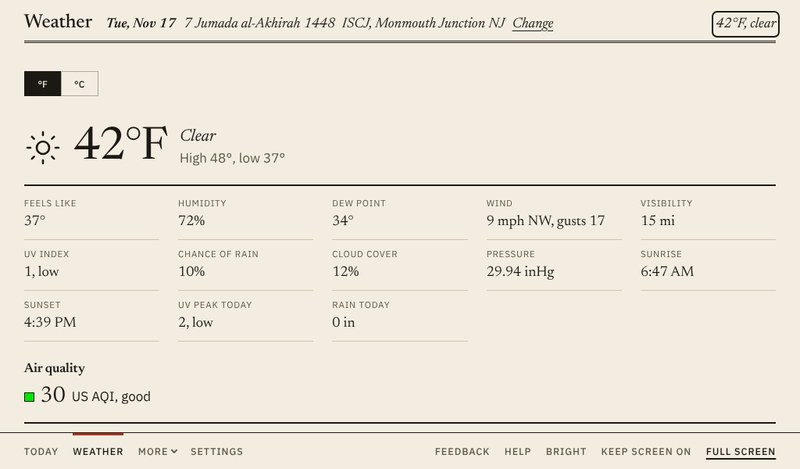
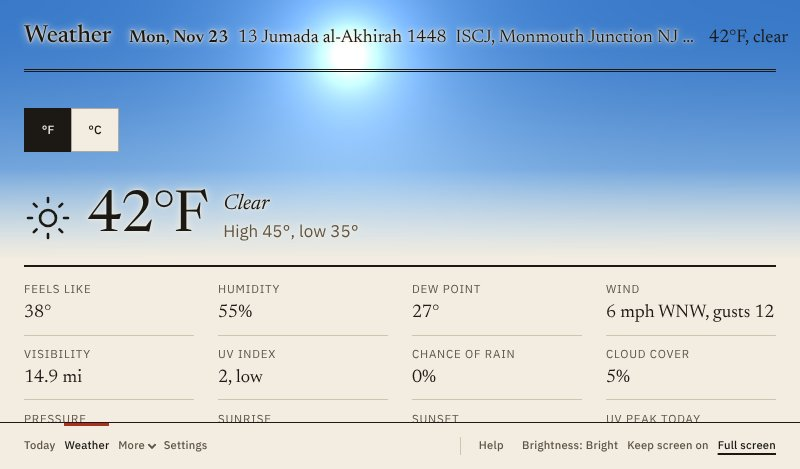
Weather tab: today's real sky behind the current weather
- The Weather tab shows the sky in the Printed timetable look whatever the
  Weather background setting says (Off is now about Today, and its note says
  so): the realistic sky by day at Bright, Soft and Dim; at night the printed
  sky at Soft and Dim, and the moon and stars at Darkest
- No sky in E-ink, High contrast or Handwritten, or under Black
- The sky is a band behind the current weather that ends just below it
  (--wx-band, measured as the weather is drawn) and scrolls away with it
  (--sky-y), so the details, the hours and the days stay on plain paper; the
  current weather and the unit buttons get the paper halo used on Today
- Today is unchanged
- Guide: Weather chapter screenshot and text, a note in Display; cache
  iqama-v61

Claude-Session: https://claude.ai/code/session_01XcbEMSBHqonumVRiWc1ZiV

diff --git a/app.js b/app.js
@@ -134,8 +134,12 @@ const night = () => timesKnown && (nowMinute >= day.rows[3].adhan || nowMinute <
 // Weather background: the realistic sky (the default: the sun on its real path by day, stars and the moon at the Hijri
 // date's phase at night), the printed sky, or off; each moving or still. sky.js draws the realistic sky only where the page
 // matches it (light by day, Darkest at night) and the printed one otherwise. dim is the level on show (Black shows as Darkest).
-const skyBack = (dim = Number(root.dataset.dim) || 0) => (settings.wxSky === 'off' ? 'off'
-  : settings.wxSky === 'real' ? (settings.wxMove ? 'real' : 'real-still') : settings.wxMove ? 'print' : 'still');
+// The Weather tab always shows the weather it describes: its picture follows the setting, and is the realistic sky even when
+// the setting is Off (Off is about Today). Only the Printed timetable look has a sky, on every screen.
+const onWeather = () => root.dataset.tab === 'weather'; // the tab on show (set by route; safe before the tabs are set up)
+const skyStyle = () => (onWeather() && settings.wxSky === 'off' ? 'real' : settings.wxSky);
+const skyBack = (dim = Number(root.dataset.dim) || 0) => (skyStyle() === 'off' ? 'off'
+  : skyStyle() === 'real' ? (settings.wxMove ? 'real' : 'real-still') : settings.wxMove ? 'print' : 'still');
 // The level asked for: 0 Bright to 3 Darkest, or 4 Black (no light)
 const currentDim = () => (timesKnown || settings.autoDim === 'off' ? dimLevel(settings, nightNow(), dimOverride) : shownDim ?? 0);
 // Black (no light): the page is covered in black after 30 s with no touch or key press, and drawn at Darkest underneath.
@@ -155,7 +159,7 @@ function applyLook() {
   root.dataset.palette = settings.look;
   root.dataset.dim = String(dim);
   root.dataset.black = blackNow() ? '1' : '0';
-  root.dataset.nightsky = settings.wxSky === 'real' && dim === 3 && night() ? '1' : '0'; // the realistic night sky is on show
+  root.dataset.nightsky = skyStyle() === 'real' && dim === 3 && night() ? '1' : '0'; // the realistic night sky is on show
   root.dataset.theme = dim === 3 || (dim === 2 && settings.look === 'contrast') ? 'dark' : 'light'; // Dim is a warm light page, except in High contrast
   root.dataset.clock = settings.clock;
   if (lvl !== shownDim) { shownDim = lvl; try { localStorage.setItem('iqama-dim', String(lvl)); } catch (e) {} }
@@ -375,7 +379,10 @@ function tick() {
   const sky = skyParams(weather, { now: nowMin, sunrise: day.sunrise, maghrib: day.rows[3].adhan }, parseInt(today.hijri, 10) || 15);
   const dim = Math.min(currentDim(), 3);
   // no sky in the Handwritten and High contrast looks, nor at Dim; at Darkest only the realistic night sky
-  const skyOk = settings.look === 'paper' && (dim < 2 || (settings.wxSky === 'real' && (dim === 3 || !sky.night)));
+  // the Weather tab: by day at Bright, Soft and Dim; at night at Soft and Dim (the printed sky) and at Darkest (the moon and stars)
+  wxBand();
+  const skyOk = settings.look === 'paper' && (onWeather() ? dim < 3 || (skyStyle() === 'real' && sky.night)
+    : dim < 2 || (skyStyle() === 'real' && (dim === 3 || !sky.night)));
   updateSky(sky, skyBack(dim), skyOk && root.dataset.black !== '1', root.dataset.theme === 'dark'); // nothing is drawn under the black cover
 
   // Alerts: only for moments crossed while the page is open
@@ -422,6 +429,7 @@ function route() {
   if (h === 'tour') { history.replaceState(null, '', '#today'); h = 'today'; setTimeout(runTour, 400); } // the guide links here
   if (h === 'feedback') { history.replaceState(null, '', `#${tab}`); h = tab; setTimeout(() => feedback?.open(), 0); } // the guide links here
   tab = TAB_IDS.includes(h) ? h : 'today';
+  if (root.dataset.tab !== tab) setTimeout(() => { applyLook(); tick(); }, 0); // the Weather tab has its own sky rules
   root.dataset.tab = tab; // the stylesheet lays out Today as one sheet
   for (const id of TAB_IDS) $(`tab-${id}`).hidden = id !== tab;
   document.querySelectorAll('.tabbar a, .dockbar a').forEach(a => {
@@ -1066,6 +1074,15 @@ for (const id of BIG_HOSTS) {
   $(id).addEventListener('pointerdown', (e) => { armed = !!e.target.closest('[data-swap]'); });
   $(id).addEventListener('pointerup', (e) => { if (armed && e.target.closest('[data-swap]')) swapBig(); armed = false; });
   $(id).addEventListener('click', (e) => { if (e.detail === 0 && e.target.closest('[data-swap]')) swapBig(); });
+}
+// The Weather tab's sky is a band behind the current weather that scrolls away with it (styles.css reads --sky-y)
+// and ends just below it (--wx-band: where the current weather ends, measured as the weather is drawn)
+$('tab-weather').addEventListener('scroll', () => root.style.setProperty('--sky-y', `${$('tab-weather').scrollTop}px`), { passive: true });
+function wxBand() {
+  const nowEl = onWeather() && $('wx-body').querySelector('.wx-now');
+  if (!nowEl) return;
+  const end = Math.round(nowEl.getBoundingClientRect().bottom + $('tab-weather').scrollTop + 12);
+  if (root.style.getPropertyValue('--wx-band') !== `${end}px`) root.style.setProperty('--wx-band', `${end}px`);
 }
 // The bell beside each prayer on the board: its alerts at a glance; a tap opens that prayer's card under Adhan and alerts
 const bellsNow = () => Object.fromEntries(ALERT_KEYS.map(k => [k, bellState(settings.alerts[k], settings.muted, k === 'jumuah')]));

diff --git a/styles.css b/styles.css
@@ -88,7 +88,14 @@ html { overflow-x: clip; } /* the page never slides sideways (a wide sky layer o
 .sky-live { position: fixed; inset: 0; z-index: -1; pointer-events: none; overflow: hidden; contain: paint; color: var(--ink); }
 /* The sky belongs behind the clock, not behind a form: on every screen but Today it is dropped, so Settings,
    Quran, Adhkar, Month and Weather keep their plain paper and their small text stays legible. */
-:root:not([data-tab="today"]) > body > .sky-live, :root:not([data-tab="today"]) .sky-tint { display: none; } /* the full screen view keeps its sky: there it is mounted inside #display */
+:root:not([data-tab="today"]):not([data-tab="weather"]) > body > .sky-live, :root:not([data-tab="today"]):not([data-tab="weather"]) .sky-tint { display: none; } /* the full screen view keeps its sky: there it is mounted inside #display */
+/* The Weather tab shows the weather it describes: the sky sits behind the current weather and scrolls away with it
+   (app.js sets --sky-y), so the details, the hours and the days below stay on plain paper */
+:root[data-tab="weather"] > body > .sky-live, :root[data-tab="weather"] .sky-tint, :root[data-tab="weather"] .sky-print { transform: translateY(calc(var(--sky-y, 0px) * -1)); }
+:root[data-tab="weather"] .sky-real, :root[data-tab="weather"] .sky-printed, :root[data-tab="weather"] .sky-print {
+  -webkit-mask-image: linear-gradient(#000 0, #000 calc(var(--wx-band, 260px) - 90px), transparent var(--wx-band, 260px));
+  mask-image: linear-gradient(#000 0, #000 calc(var(--wx-band, 260px) - 90px), transparent var(--wx-band, 260px)); }
+:root[data-tab="weather"] .sky-tint { background: linear-gradient(var(--sky), var(--paper) var(--wx-band, 260px)); }
 .sky-real { position: absolute; inset: 0; width: 100%; height: 100%; display: block;
   /* the sky is full strength along the top and gone before the timetable, at any screen height */
   -webkit-mask-image: linear-gradient(#000 0, #000 min(30vh, 200px), transparent min(62vh, 420px)); mask-image: linear-gradient(#000 0, #000 min(30vh, 200px), transparent min(62vh, 420px)); }
@@ -122,7 +129,7 @@ html { overflow-x: clip; } /* the page never slides sideways (a wide sky layer o
 .pm-warm { inset: 0; opacity: var(--o); background: linear-gradient(180deg, transparent 6%, rgba(205, 112, 52, .34) 30%, rgba(205, 112, 52, .12) 40%, transparent 47%); }
 @media (prefers-reduced-motion: reduce) { .sky-printed * { animation: none !important; } }
 /* Over the realistic sky, text in its band gets a soft paper edge so it reads over cloud, glare or rain */
-:root[data-skymode="real"] .topbar, :root[data-skymode="real"] .dx-top, :root[data-skymode="real"] .sh-mid, :root[data-skymode="real"] .sh-warn {
+:root[data-skymode="real"] .topbar, :root[data-skymode="real"] .dx-top, :root[data-skymode="real"] .sh-mid, :root[data-skymode="real"] .sh-warn, :root[data-skymode="real"] .wx-now, :root[data-skymode="real"] #tab-weather > .wx-units {
   text-shadow: 0 0 .5em var(--paper), 0 0 .18em var(--paper), 0 0 .06em var(--paper); }
 :root[data-skymode="real"] .iq-hijri, :root[data-skymode="real"] .dx-meta, :root[data-skymode="real"] .sh-side, :root[data-skymode="real"] .sh-at, :root[data-skymode="real"] .sh-wxat, :root[data-skymode="real"] .sh-wxc, :root[data-skymode="real"] .sh-wxr { color: var(--ink); }
 /* No panel is laid over the sky: the ink keeps its paper halo and sits straight on it, so the board stays one

diff --git a/guide/display.html b/guide/display.html
@@ -69,7 +69,7 @@
 <h2>Weather background and clock</h2>
 <figure class="g-shot"><a class="g-shot-frame g-crop" href="img/display-dim.jpg" style="aspect-ratio:547/264"><img src="img/display-dim.jpg" alt="The Weather background drop-down set to Realistic sky, the Movement switch on, and the note about the realistic sky." width="800" height="469" loading="lazy" decoding="async" style="position:absolute;max-width:none;width:146.25%;left:-2.38%;top:-28.79%"><span class="g-pin" style="--x:65.27%;--y:21.59%" aria-hidden="true">1</span><span class="g-pin" style="--x:32.36%;--y:46.59%" aria-hidden="true">2</span></a><figcaption>Further down again. <span class="g-zoom">(tap to see the whole screen)</span></figcaption></figure>
 <ol class="g-steps">
-<li><strong>Weather background</strong>, in the Printed timetable look. <em>Realistic sky</em> (the usual choice) draws today’s real sky: the sun on its path from sunrise to Maghrib, clouds drifting with the wind, rain and snow as heavy as they really are, fog, a soft glow behind the clouds in a storm, and at night the stars and the moon at the phase of the Hijri date. The night sky shows at <em>Darkest</em>; on a lighter night page the printed sky shows instead. <em>Printed</em> draws the same weather in ink, and <em>Off</em> leaves plain paper. Older tablets get the printed sky by themselves.</li>
+<li><strong>Weather background</strong>, on the Today screen in the Printed timetable look (the Weather tab always shows the sky; chapter 9). <em>Realistic sky</em> (the usual choice) draws today’s real sky: the sun on its path from sunrise to Maghrib, clouds drifting with the wind, rain and snow as heavy as they really are, fog, a soft glow behind the clouds in a storm, and at night the stars and the moon at the phase of the Hijri date. The night sky shows at <em>Darkest</em>; on a lighter night page the printed sky shows instead. <em>Printed</em> draws the same weather in ink, and <em>Off</em> leaves plain paper. Older tablets get the printed sky by themselves.</li>
 <li><strong>Movement</strong>: turn it off to keep the picture still.</li>
 </ol>
 <figure class="g-shot"><a class="g-shot-frame g-crop" href="img/display-more.jpg" style="aspect-ratio:687/209"><img src="img/display-more.jpg" alt="Larger number on the clock set to Automatic: countdown on small screens, then the Show seconds, Show duas and adhkar and Show transliteration switches." width="800" height="469" loading="lazy" decoding="async" style="position:absolute;max-width:none;width:116.45%;left:-1.89%;top:-36.36%"><span class="g-pin" style="--x:51.97%;--y:26.79%" aria-hidden="true">1</span><span class="g-pin" style="--x:5.09%;--y:76.56%" aria-hidden="true">2</span><span class="g-pin" style="--x:31%;--y:76.56%" aria-hidden="true">3</span></a><figcaption>The clock options. <span class="g-zoom">(tap to see the whole screen)</span></figcaption></figure>

diff --git a/guide/weather.html b/guide/weather.html
@@ -25,10 +25,10 @@
 <p class="g-lead">The weather now, the week ahead, and what it will be like at each prayer time, for the place you set in chapter 2.</p>
 
 <h2>Now</h2>
-<figure class="g-shot"><a class="g-shot-frame g-crop" href="img/weather-now.jpg" style="aspect-ratio:774/300"><img src="img/weather-now.jpg" alt="The Weather tab: °F and °C buttons, 42°F clear with a high of 48 and low of 37, and a grid of details such as feels like, humidity, wind and sunset." width="800" height="469" loading="lazy" decoding="async" style="position:absolute;max-width:none;width:103.36%;left:-1.68%;top:-20%"><span class="g-pin" style="--x:3.88%;--y:8%" aria-hidden="true">1</span><span class="g-pin" style="--x:3.23%;--y:29.33%" aria-hidden="true">2</span><span class="g-pin" style="--x:3.23%;--y:67.67%" aria-hidden="true">3</span></a><figcaption>The Weather tab. <span class="g-zoom">(tap to see the whole screen)</span></figcaption></figure>
+<figure class="g-shot"><a class="g-shot-frame g-crop" href="img/weather-now.jpg" style="aspect-ratio:774/360"><img src="img/weather-now.jpg" alt="The Weather tab: °F and °C buttons, 42°F clear with a high of 45 and low of 35 in front of a blue sky with the sun, and below it, on plain paper, a grid of details such as feels like, humidity, wind and sunset." width="800" height="469" loading="lazy" decoding="async" style="position:absolute;max-width:none;width:103.36%;left:-1.68%;top:-16.67%"><span class="g-pin" style="--x:17.05%;--y:19.44%" aria-hidden="true">1</span><span class="g-pin" style="--x:48.06%;--y:43.89%" aria-hidden="true">2</span><span class="g-pin" style="--x:17.7%;--y:66.67%" aria-hidden="true">3</span></a><figcaption>The Weather tab. <span class="g-zoom">(tap to see the whole screen)</span></figcaption></figure>
 <ol class="g-steps">
 <li><strong>°F or °C</strong>: tap to switch.</li>
-<li><strong>Now</strong>: the temperature, the sky, and today’s high and low.</li>
+<li><strong>Now</strong>: the temperature, the sky, and today’s high and low, in front of today’s real sky: the sun on its path by day, and at night the stars and the moon at the Hijri date’s phase (at Darkest; on a lighter night page, the printed sky). It shows in the Printed timetable look, whatever the Weather background setting says, and scrolls away with the current weather.</li>
 <li><strong>Details</strong>: feels like, humidity, wind, visibility, UV, chance of rain, sunrise, sunset and more.</li>
 </ol>
 

diff --git a/scripts/guide/chapters/display.html b/scripts/guide/chapters/display.html
@@ -45,7 +45,7 @@
 <h2>Weather background and clock</h2>
 <shot src="display-dim.jpg" alt="The Weather background drop-down set to Realistic sky, the Movement switch on, and the note about the realistic sky." crop="13,76,560,340" pins="1@370,133 2@190,199">Further down again.</shot>
 <ol class="g-steps">
-<li><strong>Weather background</strong>, in the Printed timetable look. <em>Realistic sky</em> (the usual choice) draws today’s real sky: the sun on its path from sunrise to Maghrib, clouds drifting with the wind, rain and snow as heavy as they really are, fog, a soft glow behind the clouds in a storm, and at night the stars and the moon at the phase of the Hijri date. The night sky shows at <em>Darkest</em>; on a lighter night page the printed sky shows instead. <em>Printed</em> draws the same weather in ink, and <em>Off</em> leaves plain paper. Older tablets get the printed sky by themselves.</li>
+<li><strong>Weather background</strong>, on the Today screen in the Printed timetable look (the Weather tab always shows the sky; chapter 9). <em>Realistic sky</em> (the usual choice) draws today’s real sky: the sun on its path from sunrise to Maghrib, clouds drifting with the wind, rain and snow as heavy as they really are, fog, a soft glow behind the clouds in a storm, and at night the stars and the moon at the phase of the Hijri date. The night sky shows at <em>Darkest</em>; on a lighter night page the printed sky shows instead. <em>Printed</em> draws the same weather in ink, and <em>Off</em> leaves plain paper. Older tablets get the printed sky by themselves.</li>
 <li><strong>Movement</strong>: turn it off to keep the picture still.</li>
 </ol>
 <shot src="display-more.jpg" alt="Larger number on the clock set to Automatic: countdown on small screens, then the Show seconds, Show duas and adhkar and Show transliteration switches." crop="13,76,700,285" pins="1@370,132 2@48,236 3@226,236">The clock options.</shot>

diff --git a/look.css b/look.css
@@ -47,8 +47,8 @@
 
 /* The weather sky stays a faint wash over the paper, and goes away at Darkest */
 :root { --sky: color-mix(in srgb, var(--sky-base) 28%, var(--paper)); --board-bg: var(--surface); --board-fg: var(--ink); }
-:root[data-dim="3"] .sky-tint, :root[data-dim="3"] .sky-print, :root[data-dim="2"]:not([data-palette="contrast"]) .sky-tint, :root[data-dim="2"]:not([data-palette="contrast"]) .sky-print { display: none; } /* a still, warm page at night */
-:root[data-nightsky="0"][data-dim="3"] .sky-live, :root[data-nightsky="0"][data-dim="3"] .sky-real, :root[data-nightsky="0"][data-dim="2"]:not([data-palette="contrast"]) .sky-live, :root[data-nightsky="0"][data-dim="2"]:not([data-palette="contrast"]) .sky-real { display: none; } /* a brightness you set by hand (Dim, Darkest) is a still page; the night sky shows when the realistic sky is on and night brings its own dark look */
+:root[data-dim="3"] .sky-tint, :root[data-dim="3"] .sky-print, :root[data-dim="2"]:not([data-palette="contrast"]):not([data-tab="weather"]) .sky-tint, :root[data-dim="2"]:not([data-palette="contrast"]):not([data-tab="weather"]) .sky-print { display: none; } /* a still, warm page at night */
+:root[data-nightsky="0"][data-dim="3"] .sky-live, :root[data-nightsky="0"][data-dim="3"] .sky-real, :root[data-nightsky="0"][data-dim="2"]:not([data-palette="contrast"]):not([data-tab="weather"]) .sky-live, :root[data-nightsky="0"][data-dim="2"]:not([data-palette="contrast"]):not([data-tab="weather"]) .sky-real { display: none; } /* a brightness you set by hand (Dim, Darkest) is a still page; the night sky shows when the realistic sky is on and night brings its own dark look */
 
 /* Print, not app: square corners, hairlines, no filled pills */
 :root { --radius-selector: 2px; --radius-field: 2px; --radius-box: 2px; }

diff --git a/scripts/guide/chapters/weather.html b/scripts/guide/chapters/weather.html
@@ -1,10 +1,10 @@
 <p class="g-lead">The weather now, the week ahead, and what it will be like at each prayer time, for the place you set in chapter 2.</p>
 
 <h2>Now</h2>
-<shot src="weather-now.jpg" alt="The Weather tab: °F and °C buttons, 42°F clear with a high of 48 and low of 37, and a grid of details such as feels like, humidity, wind and sunset." crop="13,60,787,360" pins="1@43,84 2@38,148 3@38,263">The Weather tab.</shot>
+<shot src="weather-now.jpg" alt="The Weather tab: °F and °C buttons, 42°F clear with a high of 45 and low of 35 in front of a blue sky with the sun, and below it, on plain paper, a grid of details such as feels like, humidity, wind and sunset." crop="13,60,787,420" pins="1@145,130 2@385,218 3@150,300">The Weather tab.</shot>
 <ol class="g-steps">
 <li><strong>°F or °C</strong>: tap to switch.</li>
-<li><strong>Now</strong>: the temperature, the sky, and today’s high and low.</li>
+<li><strong>Now</strong>: the temperature, the sky, and today’s high and low, in front of today’s real sky: the sun on its path by day, and at night the stars and the moon at the Hijri date’s phase (at Darkest; on a lighter night page, the printed sky). It shows in the Printed timetable look, whatever the Weather background setting says, and scrolls away with the current weather.</li>
 <li><strong>Details</strong>: feels like, humidity, wind, visibility, UV, chance of rain, sunrise, sunset and more.</li>
 </ol>
 

diff --git a/sw.js b/sw.js
@@ -1,6 +1,6 @@
 // Offline support for Iqama Times. Network first, so a new deploy or new iqama times show at once;
 // the cached copy is used only when the network fails.
-const CACHE = 'iqama-v60';
+const CACHE = 'iqama-v61';
 const SHELL = ['./', 'boot.js', 'fonts.css', 'fonts/newsreader-latin-opsz-normal.woff2', 'fonts/newsreader-latin-opsz-italic.woff2', 'fonts/ibm-plex-sans-latin-400-normal.woff2', 'fonts/ibm-plex-sans-latin-500-normal.woff2', 'fonts/ibm-plex-sans-latin-600-normal.woff2', 'fonts/amiri-arabic-400-normal.woff2', 'daisy.css', 'styles.css', 'look.css', 'app.js', 'logic.js', 'sky.js', 'clocks.js', 'weather.js', 'adhkar.js', 'hisn.js', 'quran.js', 'quran-logic.js', 'quran-offline.js', 'motion.js', 'tour.js', 'feedback.js', 'vendor/motion.min.js', 'lib/PrayTimes.js', 'lib/CalculationMethods.js', 'iqama.json', 'hisn-text.json', 'manifest.webmanifest', 'icon-192.png', 'icons/favicon.svg', 'favicon-32.png', 'apple-touch-icon.png',
   // the guide's pages (Cloudflare serves them without .html), so Help opens offline; its screenshots are cached as they are viewed
   'guide/', 'guide/guide.css', 'guide/guide.js', ...['setup', 'location', 'today', 'iqama', 'alerts', 'display', 'quran', 'adhkar', 'weather', 'help'].map(p => `guide/${p}`)];

diff --git a/index.html b/index.html
@@ -255,7 +255,7 @@
                         <div class="iq-fields">
                             <label class="check"><input class="d-toggle d-toggle-success" type="checkbox" role="switch" id="set-wxmove" aria-describedby="wxback-note"> Movement</label>
                         </div>
-                        <p class="iq-note" id="wxback-note">The realistic sky shows today’s real weather: the sun on its path by day, and at night the stars and the moon at the Hijri date’s phase. At night it needs Darkest; on a lighter night page the printed sky shows instead. Older devices get the printed sky by themselves.</p>
+                        <p class="iq-note" id="wxback-note">For the Today screen; the Weather tab always shows the sky. The realistic sky shows today’s real weather: the sun on its path by day, and at night the stars and the moon at the Hijri date’s phase. At night it needs Darkest; on a lighter night page the printed sky shows instead. Older devices get the printed sky by themselves.</p>
                     </fieldset>
                     <div class="set-group" role="radiogroup" aria-labelledby="lbl-clock">
                         <span class="iq-label" id="lbl-clock">Clock style</span>
